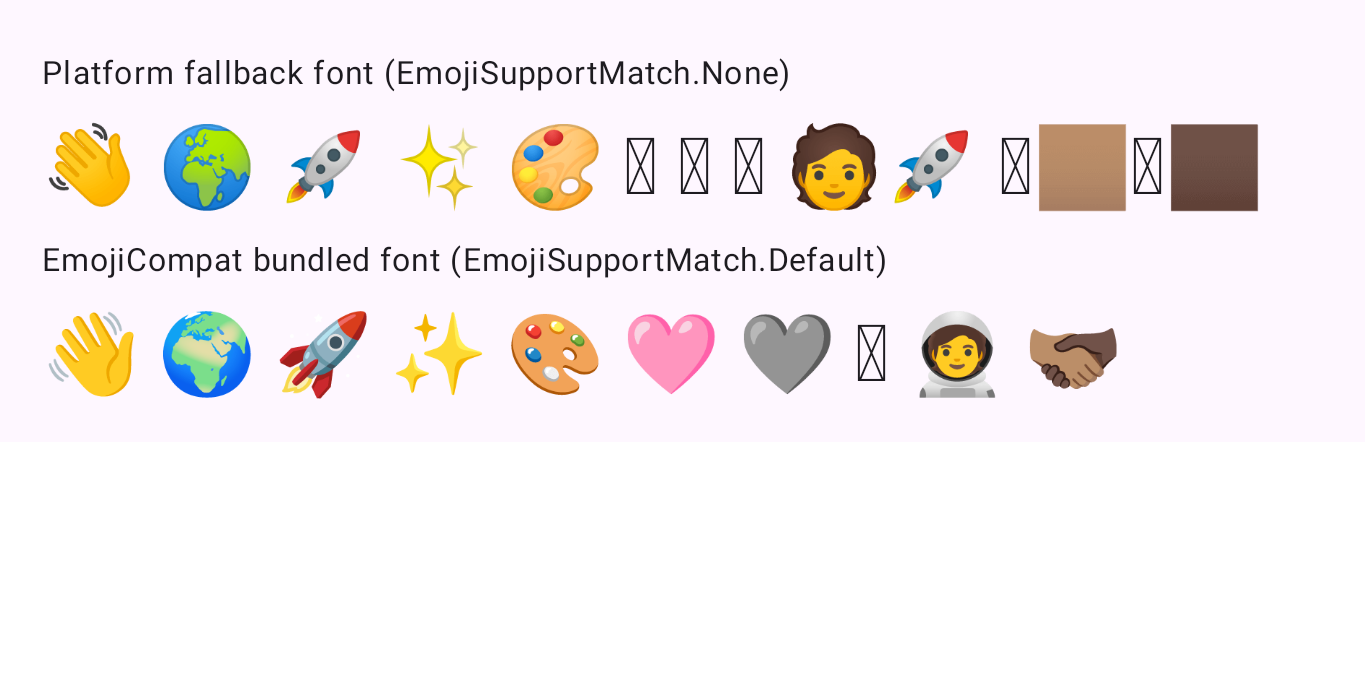
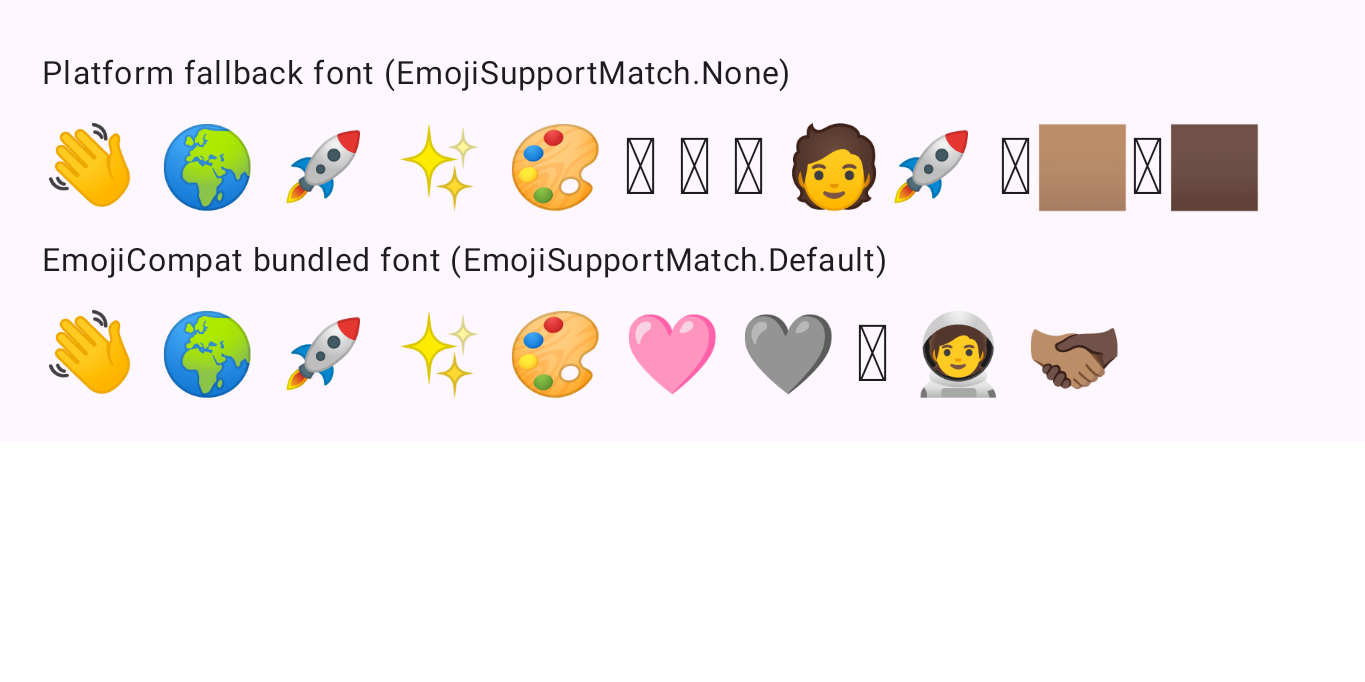
fix(renderer): keep EmojiCompat replaceAll at its default for previews
Forcing replaceAll=true pushed every emoji through the bundled font, including
glyphs the platform already renders — so a preview would diverge from a default
emoji2 consumer (which uses replaceAll=false) in the opposite direction. Leave
the config default: EmojiCompat gap-fills only the emoji the platform font
can't render, which still fixes the case that matters (newer / ZWJ glyphs the
frozen preview font lacks) while leaving system-covered emoji on the platform
font. Refreshes the committed comparison render.

diff --git a/renderers/android/src/main/kotlin/ee/schimke/composeai/renderer/EmojiCompatRenderSupport.kt b/renderers/android/src/main/kotlin/ee/schimke/composeai/renderer/EmojiCompatRenderSupport.kt
@@ -33,9 +33,9 @@ import android.content.Context
  *
  * The bundled metadata is loaded **synchronously** on the calling thread (a direct executor) under
  * `LOAD_STRATEGY_MANUAL`, then the load state is polled with the main looper idled between checks —
- * Robolectric's looper is `PAUSED`, so nothing advances on its own. `setReplaceAll(true)` forces
- * *every* emoji through the bundled font (not just those the system font lacks) so the preview is a
- * faithful, exhaustive picture of the app's emoji rendering.
+ * Robolectric's looper is `PAUSED`, so nothing advances on its own. `replaceAll` is left at its
+ * default (`false`), so only emoji the platform font can't render fall through to the bundled font —
+ * matching what a default emoji2 consumer draws on-device rather than force-restyling every glyph.
  */
 internal object EmojiCompatRenderSupport {
 
@@ -80,9 +80,12 @@ internal object EmojiCompatRenderSupport {
     configClass
       .getMethod("setMetadataLoadStrategy", Int::class.javaPrimitiveType)
       .invoke(config, manual)
-    // Replace every emoji (not only glyphs missing from the system font) so the preview is a
-    // complete picture of the app's bundled emoji, matching a consumer that sets replaceAll.
-    configClass.getMethod("setReplaceAll", Boolean::class.javaPrimitiveType).invoke(config, true)
+    // Leave `replaceAll` at its default (false): EmojiCompat replaces only emoji the platform font
+    // can't render, matching what a default emoji2 consumer draws on-device. Forcing replaceAll=true
+    // would push glyphs the platform already covers through the bundled font too, making the preview
+    // diverge from the app in the opposite direction — and the renderer can't know the consumer
+    // opted into replaceAll. Gap-fill still fixes the case that matters: newer / ZWJ emoji the frozen
+    // preview font lacks get the bundled glyph, while system-covered emoji stay on the platform font.
 
     val instance = emojiCompatClass.getMethod("init", configClass).invoke(null, config)
     emojiCompatClass.getMethod("load").invoke(instance)
